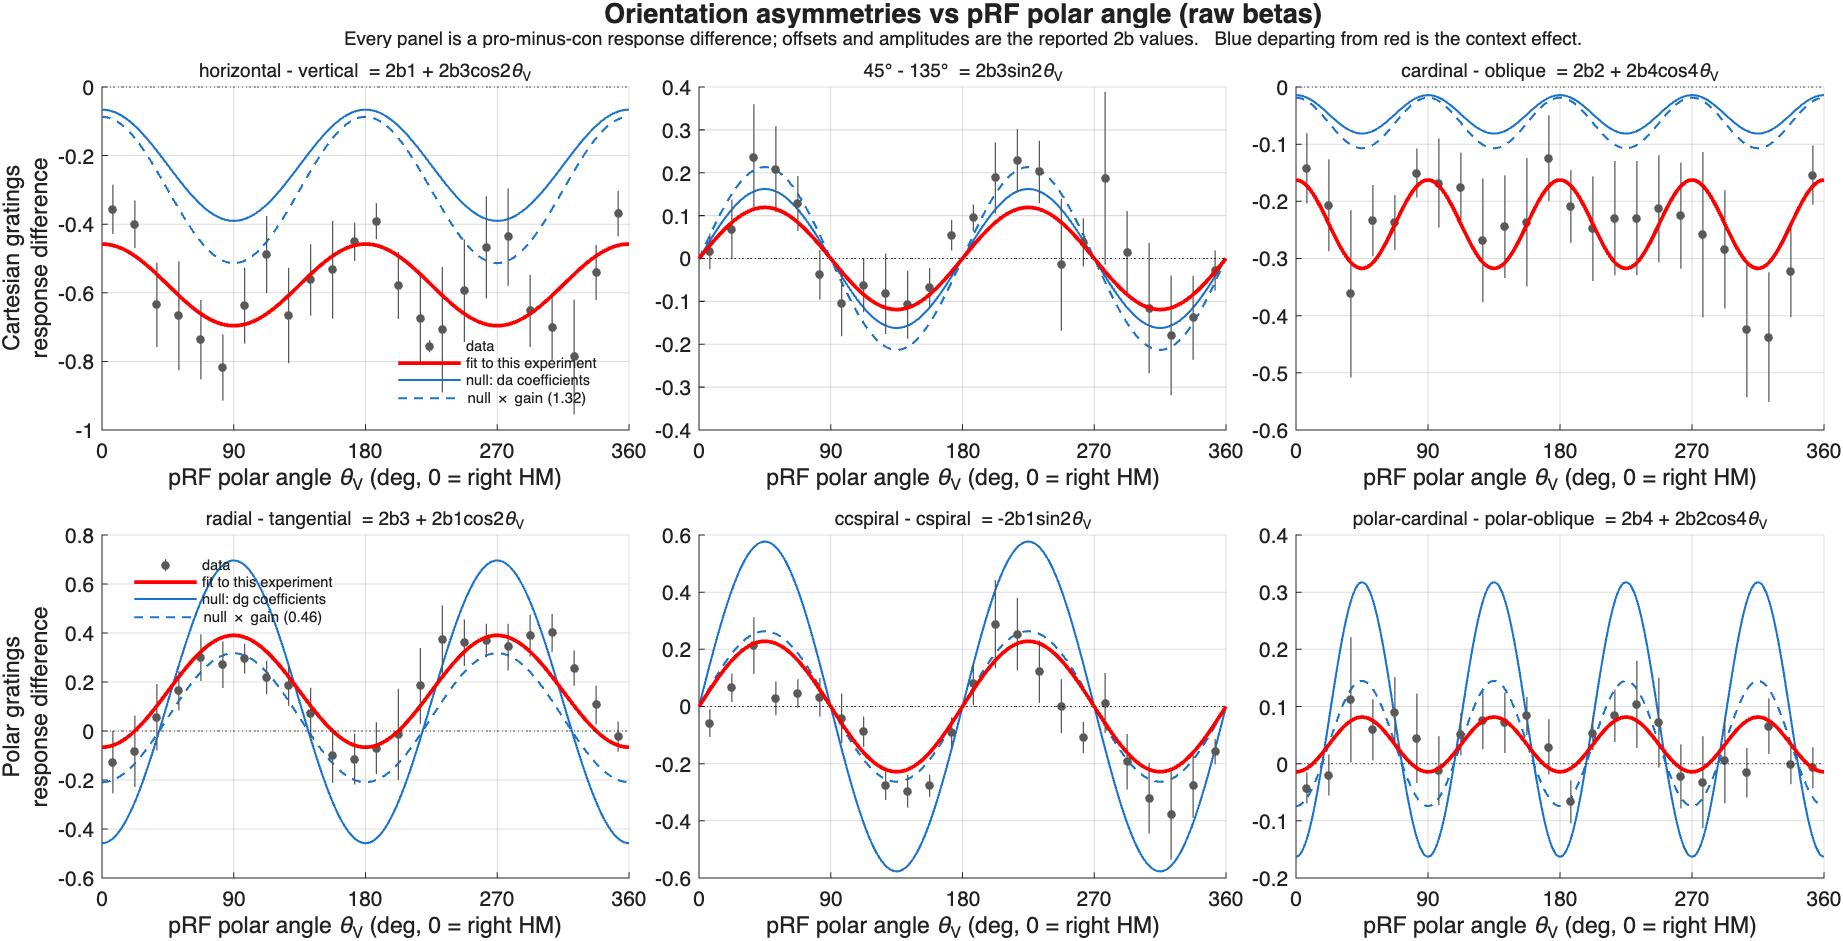
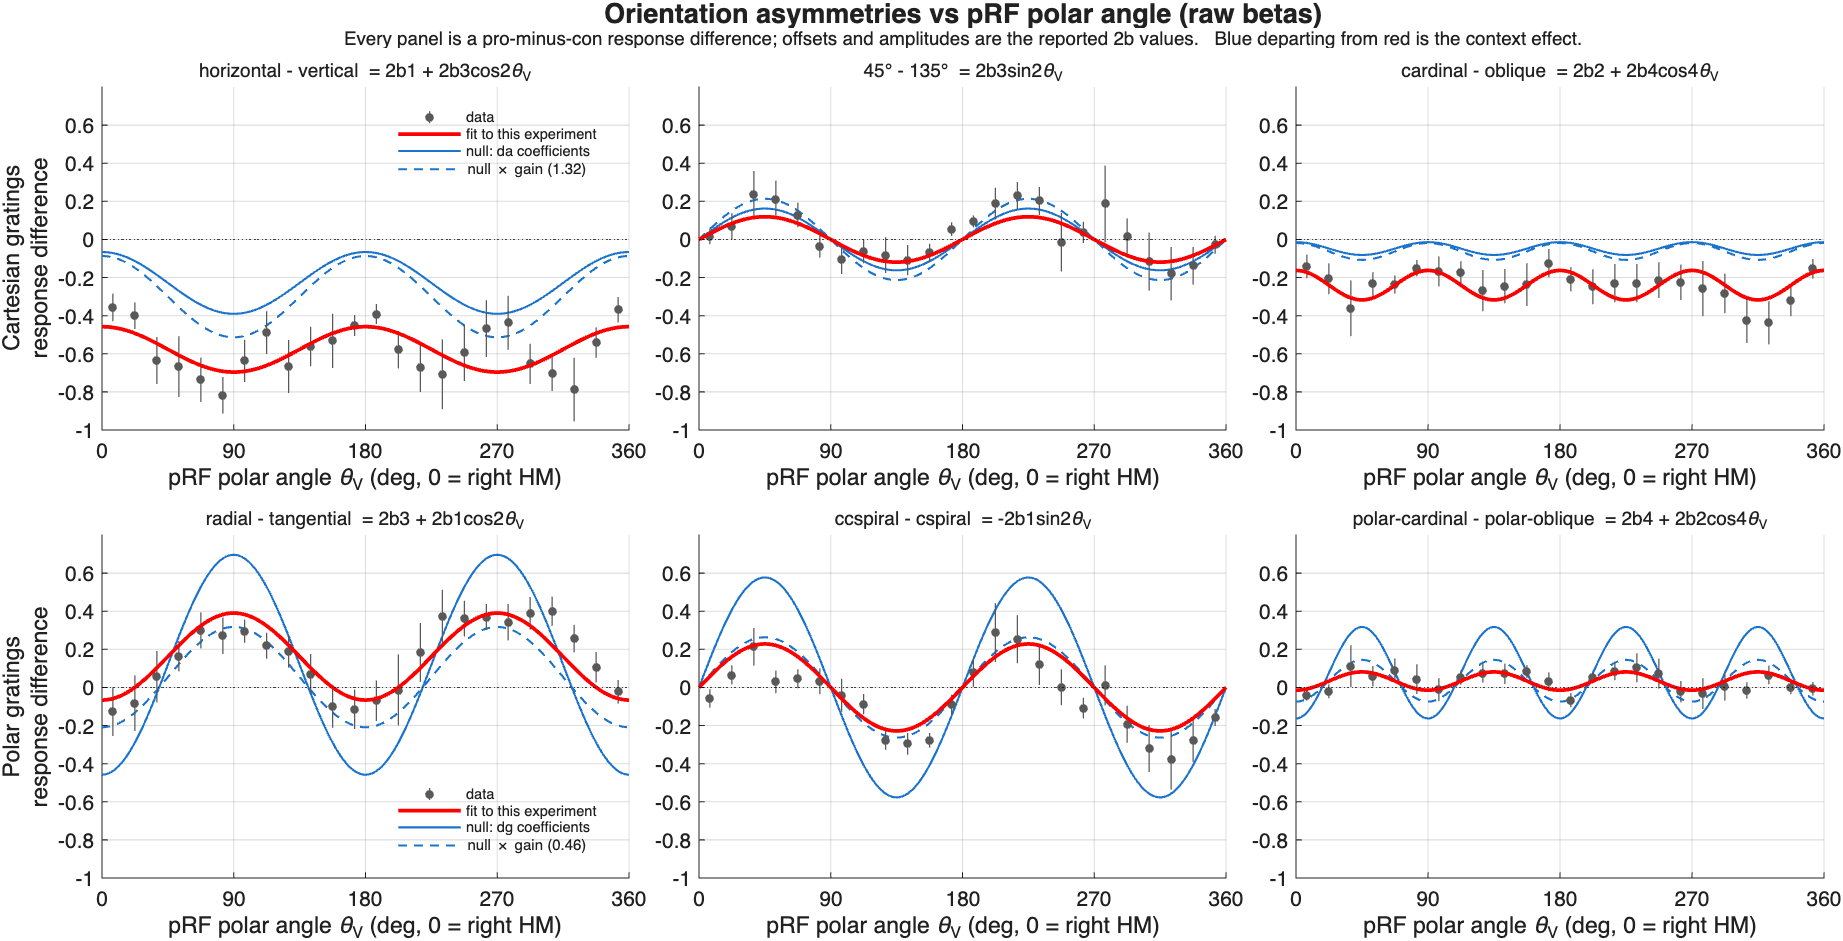
Put all six panels of Figure S1 on one y-axis
Every panel of the harmonic decomposition is a pro-minus-con response difference in
the same units, but the panels were on free axes, so the small terms were magnified
relative to the large ones -- the 45-135 and cardinal-oblique columns were blown up
two- to five-fold against horiz-vert. A reader comparing across panels was reading
differences in scaling as differences in effect size.

All six now share [-1, 0.8], which contains every point, error bar and curve. The
cost is that the middle and right columns read as nearly flat, which is the honest
depiction: those terms are small. Coefficients and data are untouched -- the figure
was regenerated from the cached fit (_cache/harmonic_raw.mat), so only the axes moved.

The caption records the common scale.

diff --git a/Reproduction/cleanroom/plot_harmonic.m b/Reproduction/cleanroom/plot_harmonic.m
@@ -31,6 +31,14 @@ function out = fig_decomposition(R, Ddg, Dda, cfg, variant)
              'FontSize',9);
 
     tvD = linspace(0,360,721).';
+
+    % ONE y-scale for all six panels. Every panel is a pro-minus-con response
+    % difference in the same units, so panel-specific limits silently magnify the
+    % small terms: on free axes the middle and right columns are blown up two- to
+    % five-fold relative to the left, and the reader cannot see that the horiz-vert
+    % and rad-tang terms dominate. Range chosen to contain every point, error bar
+    % and curve in the figure.
+    yLim = [-1 0.8];
     exps = {'dg','Cartesian gratings'; 'da','Polar gratings'};
     for ei = 1:2
         en = exps{ei,1};
@@ -103,7 +111,7 @@ function out = fig_decomposition(R, Ddg, Dda, cfg, variant)
                      'MarkerSize',3.5, 'LineWidth',0.6, 'CapSize',0);
             hM  = plot(tvD, curv{k}, 'r-', 'LineWidth', 1.8);
             yline(0,'k:');
-            xlim([0 360]); xticks(0:90:360); grid on;
+            xlim([0 360]); ylim(yLim); xticks(0:90:360); grid on;
             xlabel('pRF polar angle \theta_V (deg, 0 = right HM)');
             if k==1, ylabel(sprintf('%s\nresponse difference', exps{ei,2})); end
             title(lab{k}, 'FontWeight','normal','FontSize',9);

diff --git a/Reproduction/supplement/SUPPLEMENT_harmonic_model.md b/Reproduction/supplement/SUPPLEMENT_harmonic_model.md
@@ -513,7 +513,9 @@ are the mean across the eight observers of each observer's bin mean, error bars 
 observers. Top row, Cartesian gratings; bottom row, polar gratings. Red is the four-term model
 fitted to that experiment. Blue is the context-free null — the *other* experiment's coefficients
 evaluated through this experiment's geometry — solid without and dashed with the fitted
-cross-experiment gain; blue departing from red is the context effect.
+cross-experiment gain; blue departing from red is the context effect. All six panels share a
+common y-axis (−1 to 0.8), so the relative sizes of the six terms can be read directly off the
+figure.
 
 The left column shows the same finding twice, in the two forms the mirror structure produces. In the
 Cartesian panel the discrepancy is almost purely a vertical offset (the modulation matches, the level
